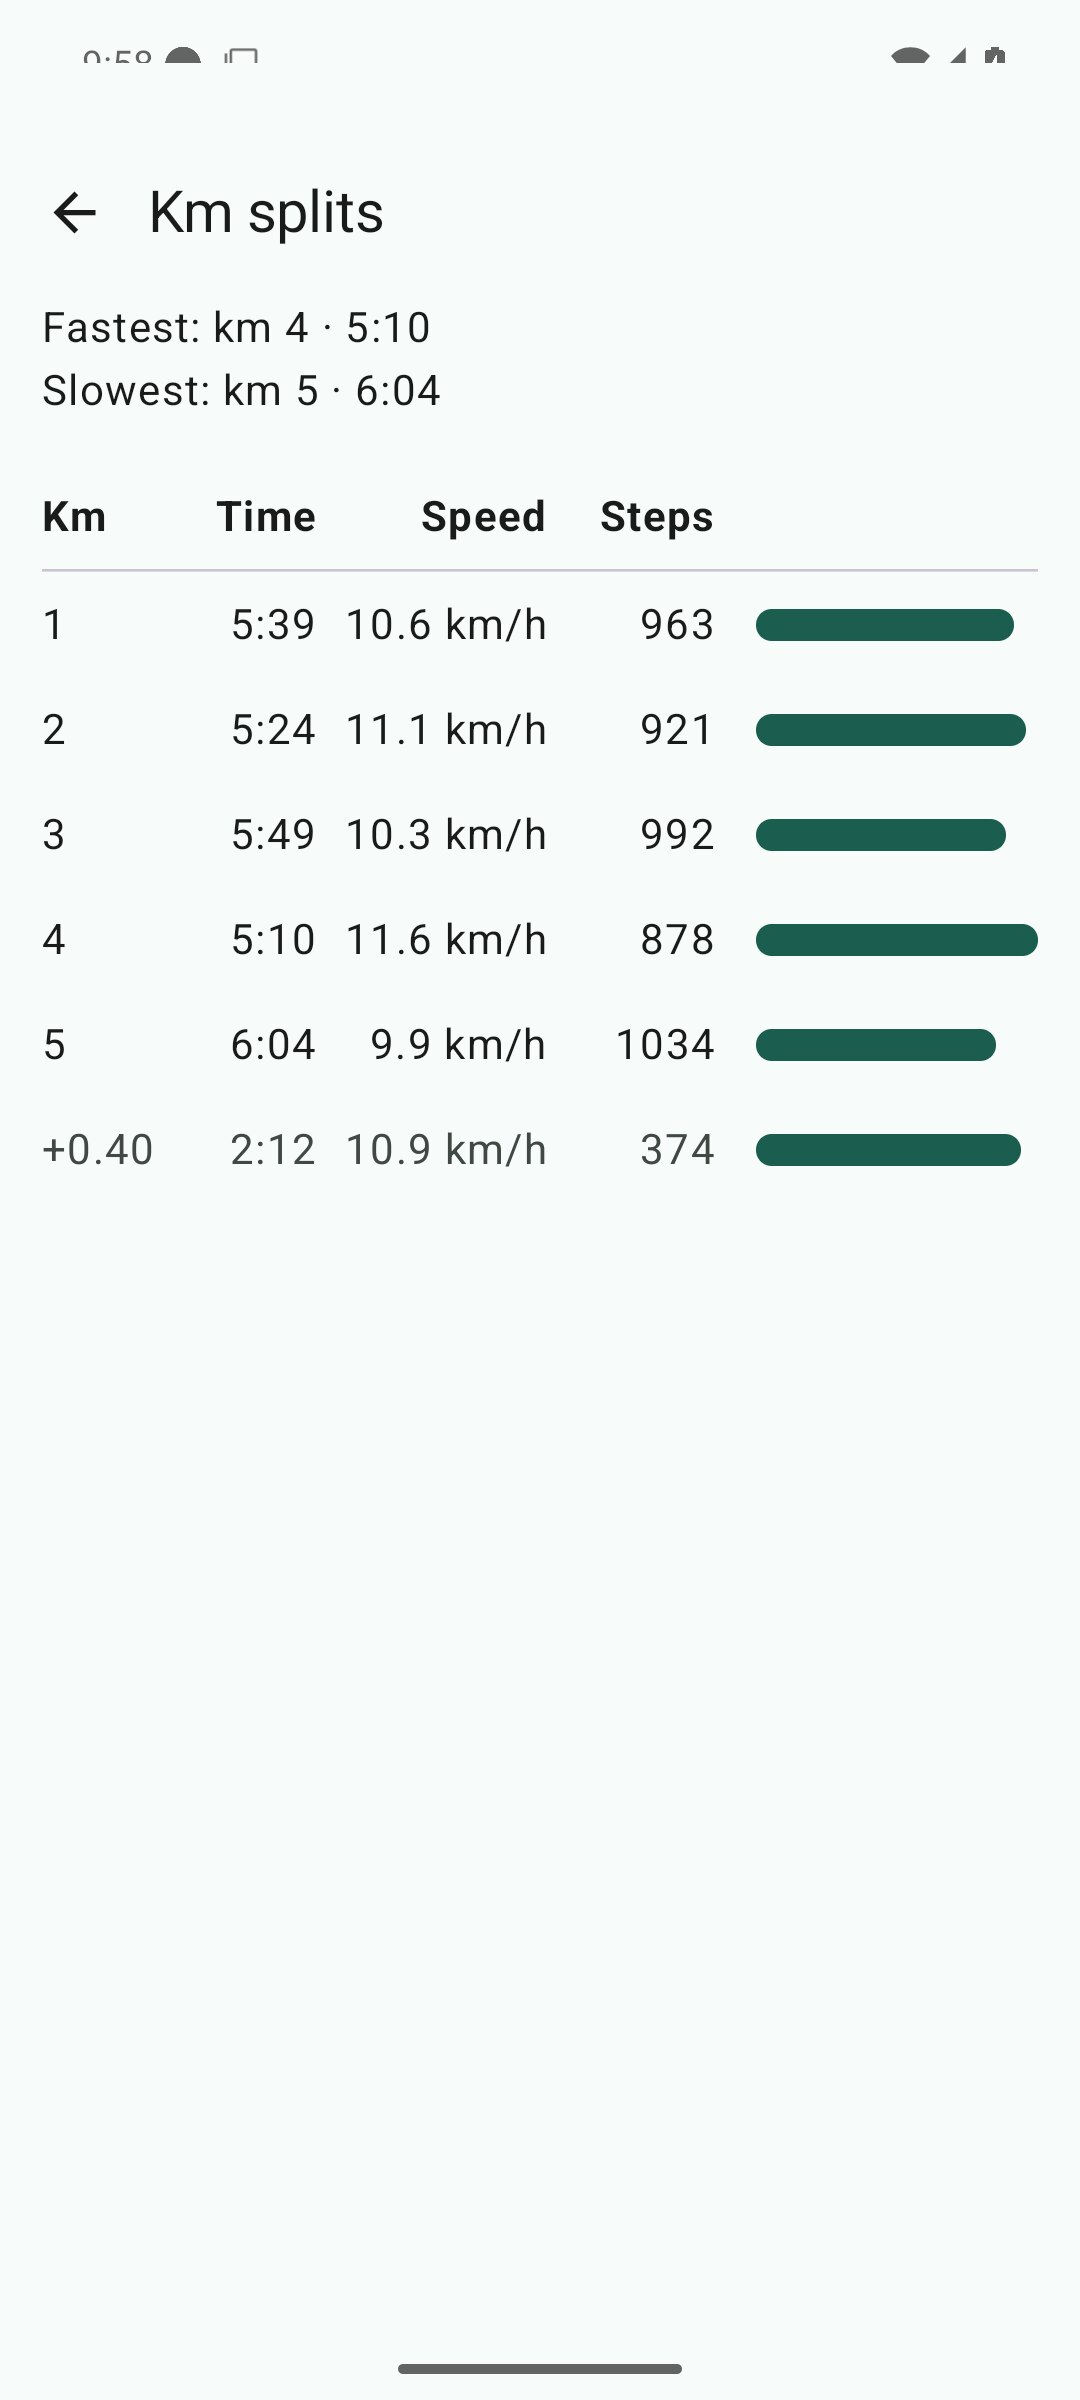
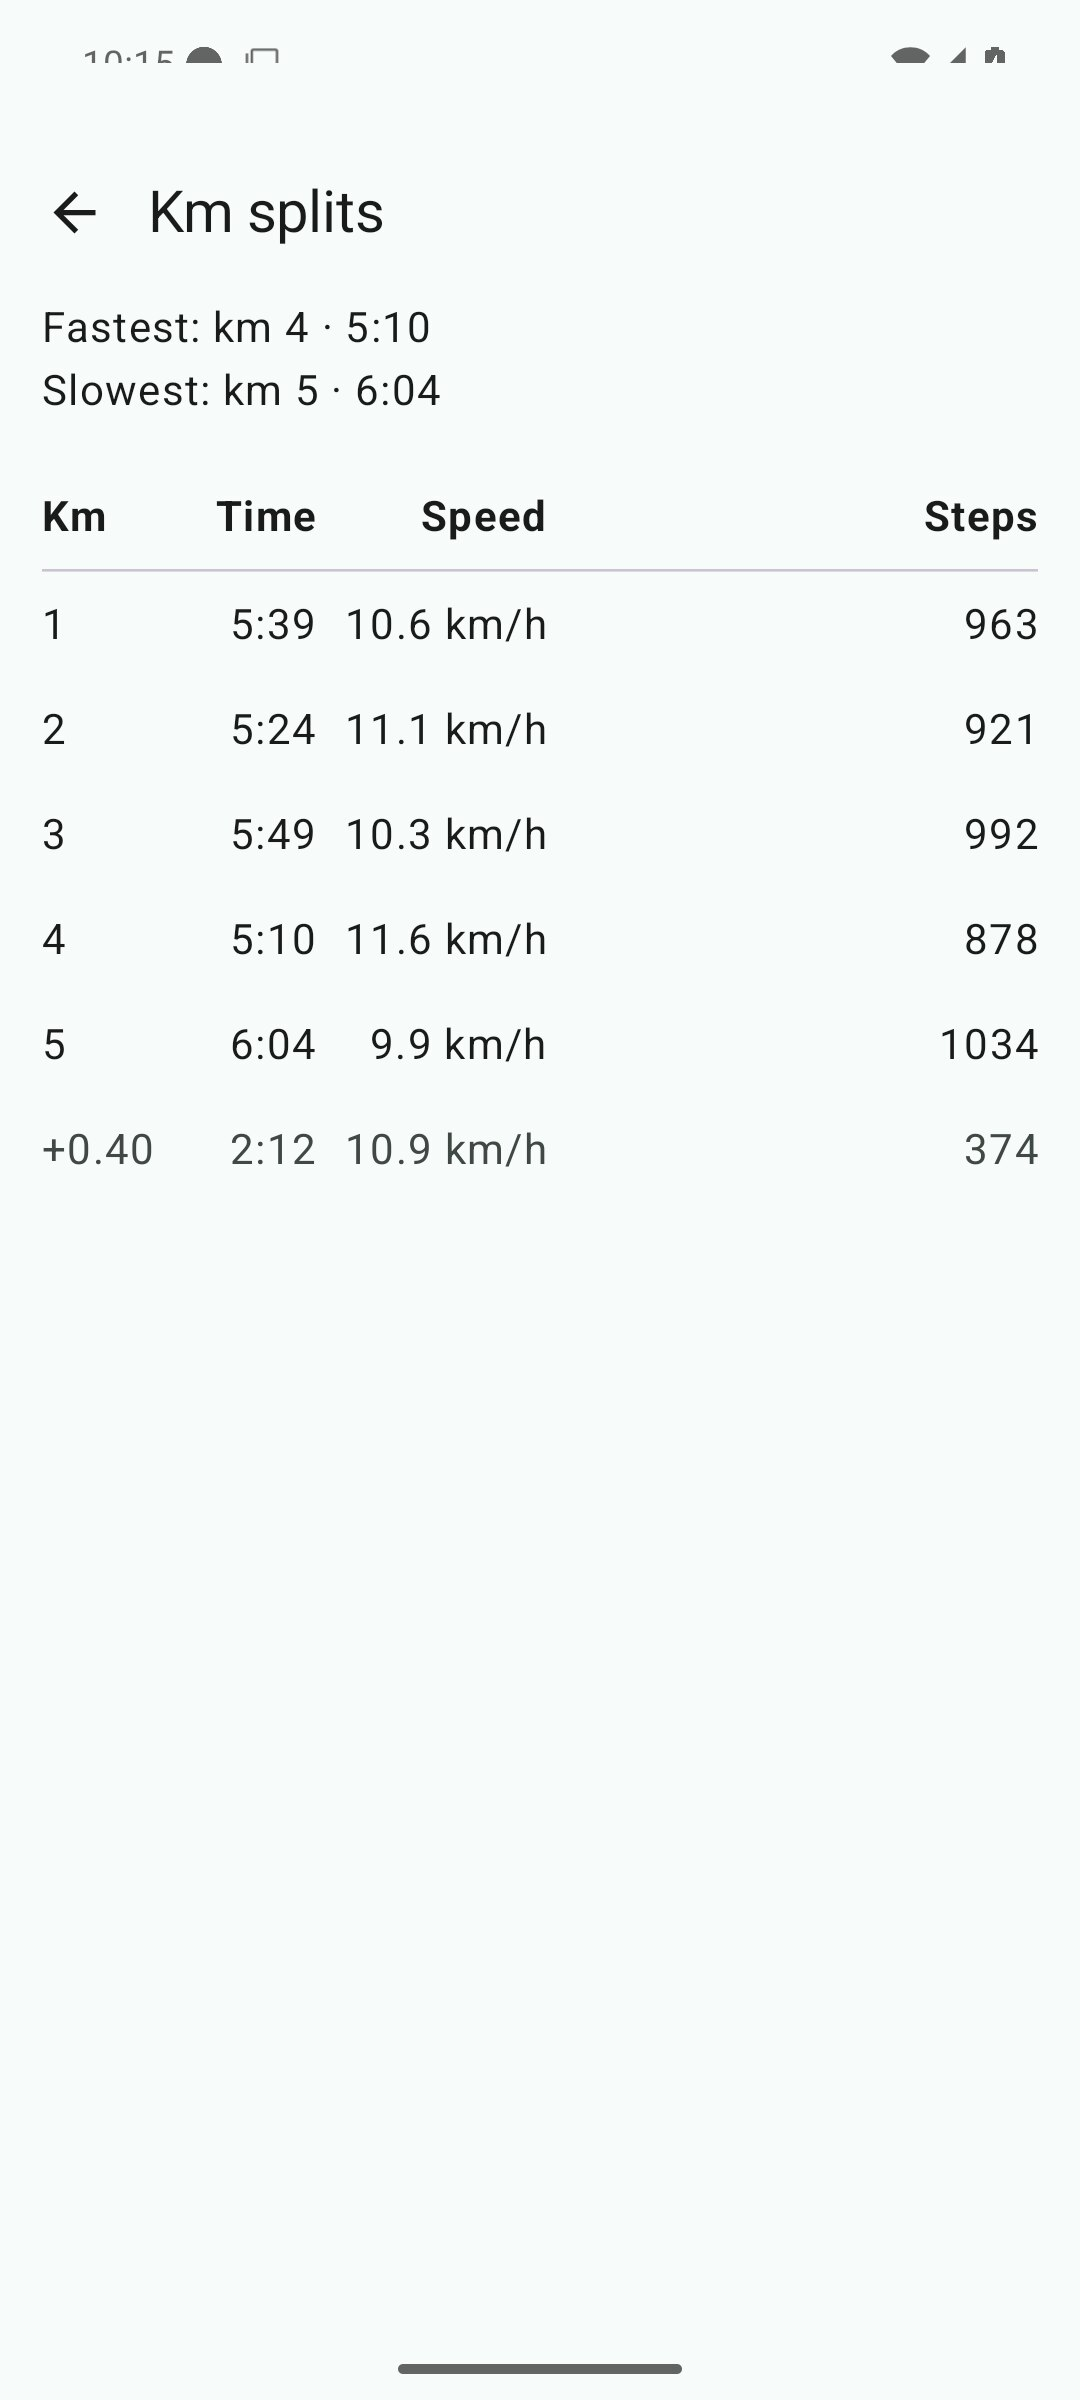
feat(android): remove the relative-speed bar from Km splits rows (#115)
Km splits should show only Km, Time, Speed, and Steps per #113 — the
green relative-speed bar to the right of Steps wasn't part of that, so
it's dropped along with the now-unused KmSplitRow.relativeSpeed and
the bar slot in SplitRowLayout.

Closes #113

diff --git a/android/app/src/main/java/com/github/tomasbjerre/wisp/ui/splits/KmSplitsScreen.kt b/android/app/src/main/java/com/github/tomasbjerre/wisp/ui/splits/KmSplitsScreen.kt
@@ -1,17 +1,14 @@
 package com.github.tomasbjerre.wisp.ui.splits
 
-import androidx.compose.foundation.background
 import androidx.compose.foundation.layout.Box
 import androidx.compose.foundation.layout.Column
 import androidx.compose.foundation.layout.Row
 import androidx.compose.foundation.layout.fillMaxSize
 import androidx.compose.foundation.layout.fillMaxWidth
-import androidx.compose.foundation.layout.height
 import androidx.compose.foundation.layout.padding
 import androidx.compose.foundation.layout.width
 import androidx.compose.foundation.lazy.LazyColumn
 import androidx.compose.foundation.lazy.items
-import androidx.compose.foundation.shape.RoundedCornerShape
 import androidx.compose.material.icons.Icons
 import androidx.compose.material.icons.automirrored.filled.ArrowBack
 import androidx.compose.material3.ExperimentalMaterial3Api
@@ -26,7 +23,6 @@ import androidx.compose.runtime.Composable
 import androidx.compose.runtime.getValue
 import androidx.compose.ui.Alignment
 import androidx.compose.ui.Modifier
-import androidx.compose.ui.draw.clip
 import androidx.compose.ui.text.font.FontWeight
 import androidx.compose.ui.text.style.TextAlign
 import androidx.compose.ui.unit.dp
@@ -88,7 +84,6 @@ fun KmSplitsScreen(
                     } else {
                         null
                     },
-                bar = {},
             )
             HorizontalDivider()
             LazyColumn(modifier = Modifier.fillMaxWidth()) {
@@ -116,17 +111,6 @@ private fun SplitRow(
             } else {
                 null
             },
-        bar = {
-            // Length, not color, carries the comparison — see specs/accessibility.md.
-            Box(
-                modifier =
-                    Modifier
-                        .fillMaxWidth(row.relativeSpeed)
-                        .height(BAR_HEIGHT)
-                        .clip(RoundedCornerShape(BAR_HEIGHT / 2))
-                        .background(MaterialTheme.colorScheme.primary),
-            )
-        },
     )
 }
 
@@ -136,7 +120,6 @@ private fun SplitRowLayout(
     time: @Composable () -> Unit,
     speed: @Composable () -> Unit,
     steps: (@Composable () -> Unit)?,
-    bar: @Composable () -> Unit,
 ) {
     Row(
         modifier = Modifier.fillMaxWidth().padding(vertical = 8.dp),
@@ -146,18 +129,13 @@ private fun SplitRowLayout(
         Box(modifier = Modifier.width(TIME_COLUMN_WIDTH), contentAlignment = Alignment.CenterEnd) { time() }
         Box(modifier = Modifier.width(SPEED_COLUMN_WIDTH), contentAlignment = Alignment.CenterEnd) { speed() }
         if (steps != null) {
-            Box(modifier = Modifier.width(STEPS_COLUMN_WIDTH), contentAlignment = Alignment.CenterEnd) { steps() }
+            Box(modifier = Modifier.weight(1f).padding(start = 16.dp), contentAlignment = Alignment.CenterEnd) {
+                steps()
+            }
         }
-        Box(
-            modifier = Modifier.weight(1f).padding(start = 16.dp),
-            contentAlignment = Alignment.CenterStart,
-        ) { bar() }
     }
 }
 
-// Sized to leave the bar room even with the Steps column on a narrow (360 dp) phone.
 private val KM_COLUMN_WIDTH = 48.dp
 private val TIME_COLUMN_WIDTH = 56.dp
 private val SPEED_COLUMN_WIDTH = 88.dp
-private val STEPS_COLUMN_WIDTH = 64.dp
-private val BAR_HEIGHT = 12.dp

diff --git a/android/app/src/main/java/com/github/tomasbjerre/wisp/ui/splits/KmSplitRows.kt b/android/app/src/main/java/com/github/tomasbjerre/wisp/ui/splits/KmSplitRows.kt
@@ -10,8 +10,6 @@ data class KmSplitRow(
     val speedMps: Double,
     /** Steps taken over this row's distance; null when the session has no steps per split. */
     val steps: Long?,
-    /** This row's speed relative to the fastest row's, 0..1 — the length of its bar. */
-    val relativeSpeed: Float,
     val isPartial: Boolean,
 )
 
@@ -34,7 +32,6 @@ object KmSplitRows {
                     durationSeconds = seconds,
                     speedMps = speedMps(METERS_PER_KM, seconds),
                     steps = splits.completeSteps?.getOrNull(index),
-                    relativeSpeed = 0f,
                     isPartial = false,
                 )
             }
@@ -45,13 +42,10 @@ object KmSplitRows {
                     durationSeconds = it.durationSeconds,
                     speedMps = speedMps(it.distanceMeters, it.durationSeconds),
                     steps = it.steps,
-                    relativeSpeed = 0f,
                     isPartial = true,
                 )
             }
-        val all = complete + listOfNotNull(partial)
-        val fastest = all.maxOfOrNull { it.speedMps } ?: 0.0
-        return all.map { it.copy(relativeSpeed = if (fastest > 0) (it.speedMps / fastest).toFloat() else 0f) }
+        return complete + listOfNotNull(partial)
     }
 
     /**

diff --git a/android/app/src/test/java/com/github/tomasbjerre/wisp/ui/splits/KmSplitRowsTest.kt b/android/app/src/test/java/com/github/tomasbjerre/wisp/ui/splits/KmSplitRowsTest.kt
@@ -30,16 +30,6 @@ class KmSplitRowsTest {
     }
 
     @Test
-    fun `bars are relative to the fastest row, which gets a full bar`() {
-        val splits = GeoUtils.KmSplits(listOf(400L, 200L), null)
-
-        val rows = KmSplitRows.rows(splits)
-
-        assertThat(rows[1].relativeSpeed).isEqualTo(1f)
-        assertThat(rows[0].relativeSpeed).isCloseTo(0.5f, within(0.001f))
-    }
-
-    @Test
     fun `each row carries its own steps, the partial km included`() {
         val splits =
             GeoUtils.KmSplits(

diff --git a/specs/ui-flows.md b/specs/ui-flows.md
@@ -124,19 +124,16 @@ splits are computed).
   same).
 - The **fastest** and **slowest** complete kilometer, each with its split
   time — only when there are at least two complete kilometers to compare.
-- A table, one row per complete kilometer in order, numbered from 1:
-  - the split time,
-  - the average speed over that kilometer,
-  - the number of steps taken over that kilometer (see
-    [Tracking](tracking.md#km-splits)) — the whole column is omitted
-    when the session has no steps per split,
-  - a bar whose length is that speed relative to the fastest row's — so
-    faster and slower stretches stand out at a glance, by length rather
-    than by color (see [Accessibility](accessibility.md)).
+- A table, one row per complete kilometer in order, numbered from 1: the
+  split time, the average speed over that kilometer, and the number of
+  steps taken over that kilometer (see [Tracking](tracking.md#km-splits))
+  — the whole Steps column is omitted when the session has no steps per
+  split. Just these four columns (Km, Time, Speed, Steps) — no other
+  decoration on the row.
 - After those, the partial km (if any), labeled with its distance (e.g.
   `+0.40`) and visually set apart from the full kilometers, since its
-  time (and steps) cover a shorter distance than theirs; its speed and
-  bar are directly comparable.
+  time (and steps) cover a shorter distance than theirs; its speed is
+  directly comparable.
 - Long sessions scroll within the table.
 
 ## Feedback and support

diff --git a/docs/user-manual.md b/docs/user-manual.md
@@ -146,20 +146,18 @@ just-finished:
 Opened with the **Km splits** link on Detail, for analyzing an activity
 kilometer by kilometer:
 
-<img src="screenshots/detail-km-splits.jpg" alt="Km splits view with a row and bar per kilometer" width="300">
+<img src="screenshots/detail-km-splits.jpg" alt="Km splits view with a row per kilometer" width="300">
 
 - **Fastest / Slowest** — which kilometer was quickest and which was
   slowest, with their times. Shown once there are at least two complete
   kilometers to compare.
 - **One row per kilometer** — its number, how long it took, your average
-  speed over it, how many steps you took over it (when your phone counts
-  steps — see [Tracking](#tracking)), and a bar: the longer the bar, the faster that
-  kilometer, so the quick and slow stretches of the activity stand out
-  at a glance.
+  speed over it, and how many steps you took over it (when your phone
+  counts steps — see [Tracking](#tracking)).
 - **The last partial kilometer** — the bit after your last complete
   kilometer (e.g. `+0.40` for the last 400 m), dimmed since its time and
-  steps cover a shorter distance than the others. Its speed and bar still
-  compare directly.
+  steps cover a shorter distance than the others. Its speed still
+  compares directly.
 - **Back** — the arrow in the top-left (or your phone's back gesture)
   returns to Detail.
 
